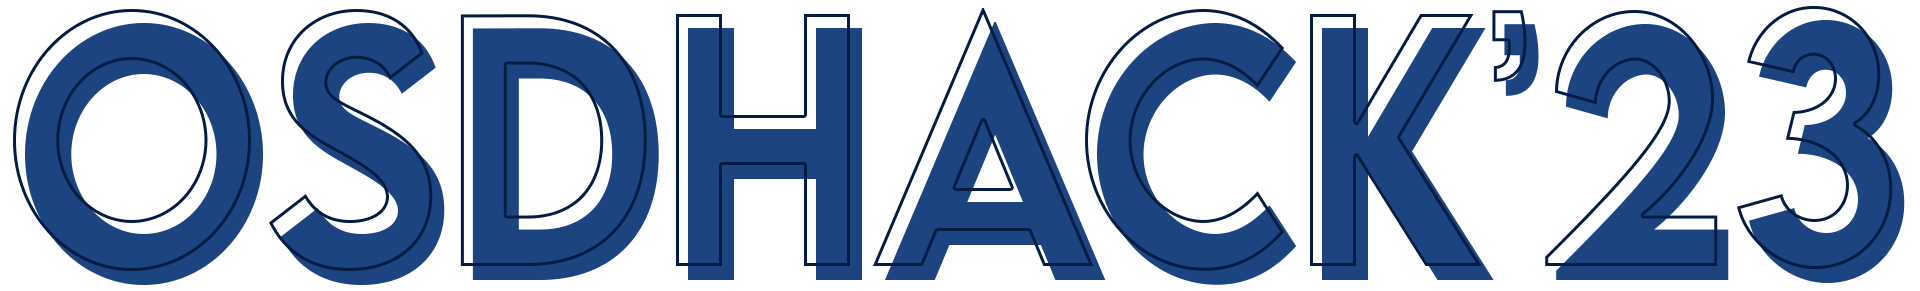
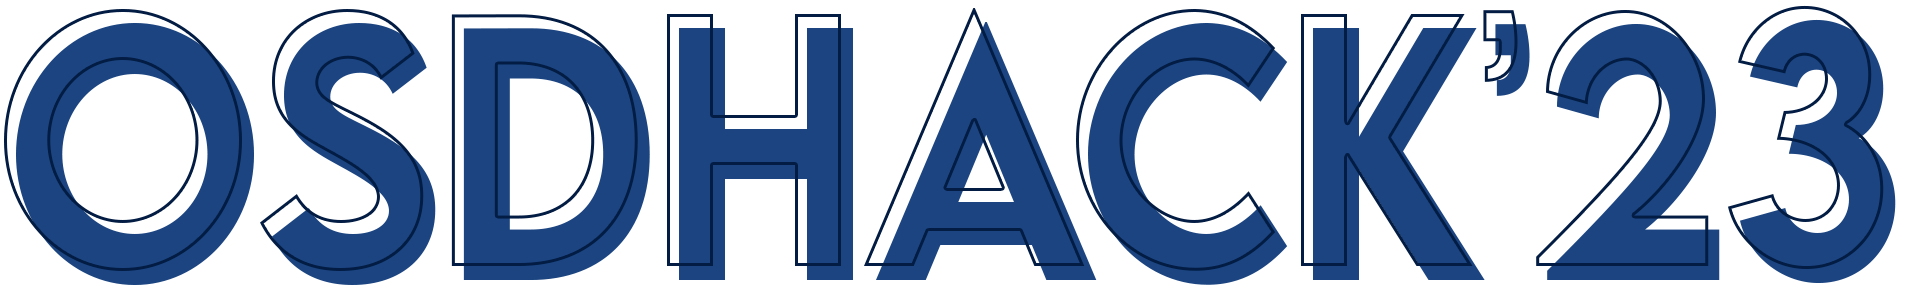
minor padding fixes, jiit edition updated, title image updated

diff --git a/index.html b/index.html
@@ -35,7 +35,7 @@
         href="https://stackpath.bootstrapcdn.com/font-awesome/4.7.0/css/font-awesome.min.css">
     <link rel="stylesheet" type="text/css" href="css/styles.min.css">
     <link rel="icon" href="assets/img/osdhack.png" type="image/png">
-    <title>OSDHACK'23</title>
+    <title>OSDHACK'23 - JIIT EDITION</title>
     <meta name="description" content="OSDHACK 2023: BACK TO THE FUTURE!" />
     <meta name="viewport" content="width=device-width, initial-scale=1, maximum-scale=1">
 
@@ -104,9 +104,10 @@
                         <!-- <h1 id="title-header">OSDHACK 2023</h1> -->
                         <h2 id="title-sub1" style="margin-top: 0;padding-top: 0 ;font-size: 18px;padding-bottom: 0;">OPEN SOURCE DEVELOPERS COMMUNITY</h2>
                         <h4 style="padding-top: 0;font-size: 14px;" >Jaypee Institute Of Information Technology</h4>
-                        <h4 style="padding-top: 10;font-size: 14px;padding-bottom: 25px;font-variant: small-caps" >presents</h4>
+                        <h4 style="padding-top: 10;font-size: 14px;padding-bottom: 25px;padding-top: 15px;" >presents</h4>
                         <img id="title-header" src="assets/img/osdhack-title.png" />
                         <!-- <img id="title-header-outline" src="./assets/img/Outline_Text.svg" /> -->
+                        <h4 id="title-sub" style="font-size: 25px;margin-top: 0;padding-top: 0;margin-bottom: 5px;"> JIIT EDITION</h4>
                         <h4 id="title-sub"> BACK TO THE FUTURE</h4>
                         <h4 id="title-date" style="margin-top: 0;">April 21-24, 2023</h4>
                         <a href="https://discord.gg/kAH6WdNchQ" target="_blank">
@@ -163,8 +164,9 @@
                     <h2 >Open Source Developer's COMMUNITY</h2>
                     <h2 style="padding-top: 0;font-size: 14px;" >Jaypee Institute Of Information Technology</h3>
                     <h5 id="presents" style="margin-bottom: 0;font-weight: 100;margin-top: 0;font-family: LemonMilkMedium;">PRESENTS</h5>
-                    <h4 id="title-sub" style="font-size: 30px;font-weight: 500">OSDHACK'23</h4>
-                    <h4 id="title-sub"> BACK TO THE FUTURE</h4>
+                    <h4 id="title-sub" style="padding-bottom: 0;font-size: 30px;font-weight: 500">OSDHACK'23</h4>
+                    <h4 id="title-sub" style="padding-bottom: 20px;"> JIIT EDITION</h4>
+                    <h4 id="title-sub"> <b>BACK TO THE FUTURE</b></h4>
                     <h4 id="title-date">April 21-24, 2023</h4>
                     <div class="more-footer" style="display: flex;
                     justify-content: center;
